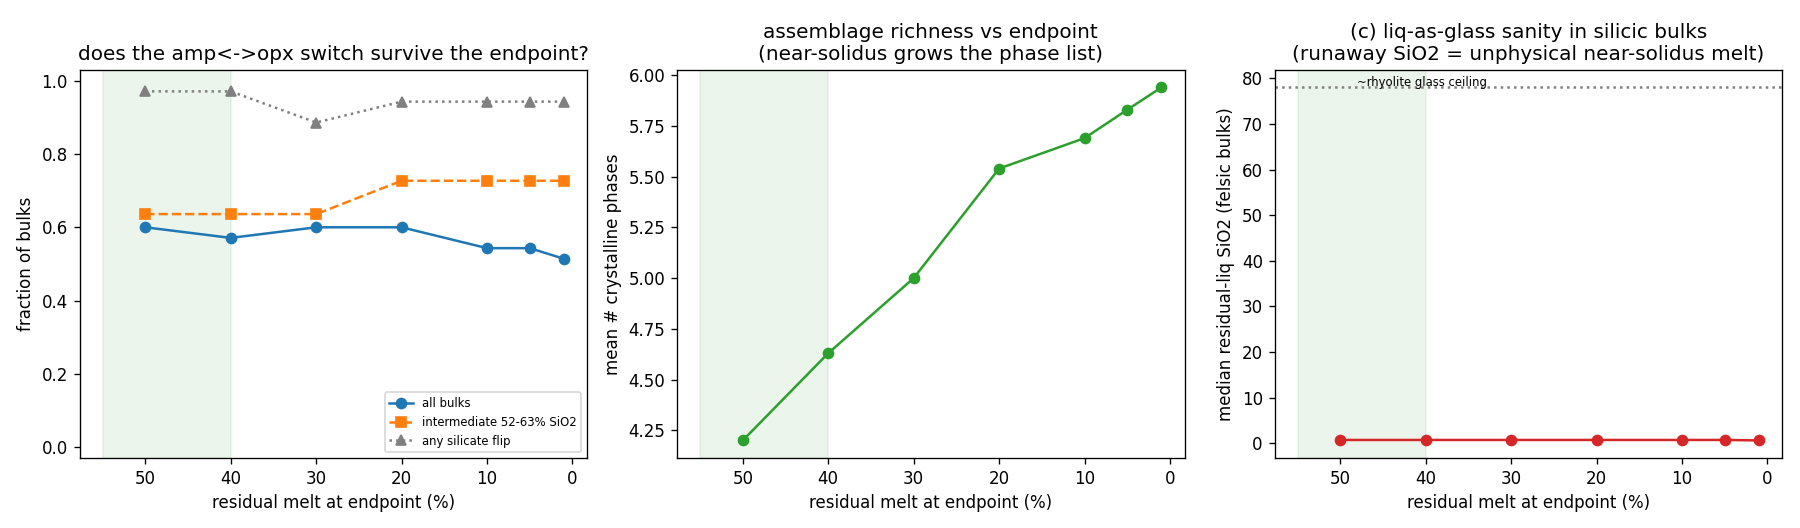
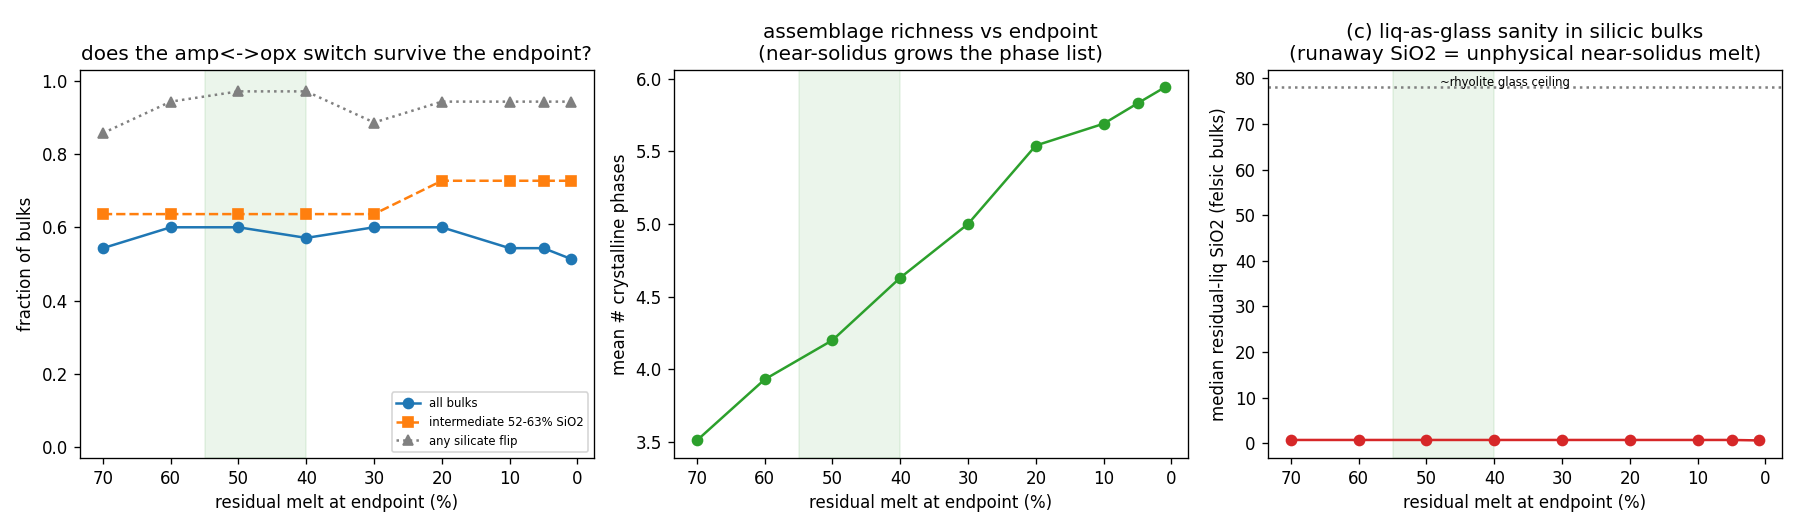
what volcanic_proxy_definition is for: our training labels come from a   simulator that answers one narrow question -- if this melt sits at some depth   with some water and cools in equilibrium, what crystals form. a real volcanic   rock is not that idealized object: it cooled partway underground, e
endpoint_repick.py: we already stored full cooling histories for 36 test rocks
  x 128 depth/water combinations, so this script re-reads them at nine stopping
  points (70% melt left down to 1%) and asks whether the headline result
  survives -- that the same rock chemistry gives different mineral sets
  depending on water (amphibole if wet, orthopyroxene if dry), the reason the
  model outputs multiple scenarios. it survives at every stopping point, and
  cooling to the end bloats the crystal list with dubious late-stage minerals.

  felsic_saturation.py: the remaining worry was silica-rich rocks, whose
  signature minerals (quartz, k-feldspar, biotite) feel late-stage -- would an
  early stop miss them, forcing a special deeper stop for felsic compositions?
  measured against 717 real rocks, the worry inverts: in silica-rich melts those
  minerals appear early (quartz typically crystallizing with 75% of the melt
  still liquid), so the early stop captures them, while cooling to the end puts
  quartz and biotite into simulated basalts where real basalts have exactly
  zero. so no composition-dependent stopping rule, and the early stop is what
  keeps mafic rocks honest. the one under-shooter is biotite, which loves water
  -- suspected to be the flat water assumption (fixed next), not the endpoint,
  so biotite is flagged as the sentinel to re-check after the water redesign.

diff --git a/explorations/volcanic_proxy_definition/felsic_saturation.py b/explorations/volcanic_proxy_definition/felsic_saturation.py
@@ -1,0 +1,158 @@
+"""Does a phenocryst-regime endpoint saturate the felsic diagnostic phases?
+
+The granularity EDA (explorations/real_mineralogy/eda) shows quartz, alkali
+feldspar, and biotite are felsic-restricted phenocrysts in real rocks. The
+residual question for the endpoint decision: at an eruptible-crystallinity
+endpoint (50-30% residual melt), do felsic bulks already saturate those phases
+in the equilibrium cooling ladders, or do they only appear near-solidus --
+which would argue for a composition-conditional (deeper felsic) stop?
+
+Reads the stored ladders in ../equilibrium_multimodality/work (gitignored,
+regenerable via that exploration's driver.py) plus the real benchmark in
+data/real_mineralogy/. Writes results/. No new MAGEMin run.
+"""
+import json
+from pathlib import Path
+
+import numpy as np
+import pandas as pd
+import matplotlib
+matplotlib.use("Agg")
+import matplotlib.pyplot as plt
+
+HERE = Path(__file__).resolve().parent
+WORK = HERE.parent / "equilibrium_multimodality" / "work"
+REAL = HERE.parent.parent / "data" / "real_mineralogy"
+RESULTS = HERE / "results"
+
+PRESENCE_EPS = 1e-3          # matches endpoint_repick.py / analyze.py
+MELT_LADDER = [0.70, 0.60, 0.50, 0.40, 0.30, 0.20, 0.10, 0.05, 0.01]
+BANDS = [0, 52, 63, 100]
+BAND_LABELS = ["mafic", "intermediate", "felsic"]
+
+# kfsp = any feldspar instance that is K-dominant by weight (sanidine proxy;
+# duplicates in the raw phase list are the two coexisting feldspars)
+TRACKED = ["q", "bi", "kfsp"]
+
+
+def load_points():
+    meta = pd.read_csv(WORK / "meta.csv")
+    rows = []
+    for f in sorted((WORK / "raw").glob("bulk_*.jsonl")):
+        for line in open(f):
+            r = json.loads(line)
+            liq = q = bi = 0.0
+            kfsp = False
+            for p in r["phases"]:
+                mode = float(p["mode_wt"])
+                if p["name"] == "liq":
+                    liq += mode
+                elif p["name"] == "q":
+                    q += mode
+                elif p["name"] == "bi":
+                    bi += mode
+                elif p["name"] == "fsp" and mode > PRESENCE_EPS:
+                    c = p["comp_wt"]
+                    kfsp = kfsp or c.get("K2O", 0) > c.get("Na2O", 0)
+            # q_mode/bi_mode: meta.csv already owns `q` (the proposal density)
+            rows.append(dict(sid=r["sid"], status=r["status"], G=r["G"],
+                             liq=liq, q_mode=q, bi_mode=bi, kfsp=kfsp))
+    pts = pd.DataFrame(rows).merge(meta, on="sid", how="inner")
+    pts["ok"] = (pts.status == 0) & (pts.G < 0)
+    return pts
+
+
+def per_draw(pts):
+    """One row per (bulk, draw): presence at each ladder endpoint + the melt
+    fraction at which each tracked phase first saturates while cooling."""
+    out = []
+    for (bulk, draw), g in pts[pts.ok].groupby(["bulk", "draw"]):
+        g = g.sort_values("T_celsius", ascending=False)
+        present = dict(q=g.q_mode > PRESENCE_EPS, bi=g.bi_mode > PRESENCE_EPS,
+                       kfsp=g.kfsp)
+        row = dict(bulk=bulk, draw=int(draw), sio2_bulk=float(g.sio2_bulk.iloc[0]),
+                   series=g.series.iloc[0])
+        for ph in TRACKED:
+            first = g.liq[present[ph]]
+            row[f"{ph}_in_liq"] = float(first.iloc[0]) if len(first) else np.nan
+        for melt in MELT_LADDER:
+            sub = g[g.liq < melt]
+            ep = sub.iloc[0] if len(sub) else g.iloc[-1]
+            for ph in TRACKED:
+                row[f"{ph}_at_{melt}"] = bool(present[ph].loc[ep.name])
+        out.append(row)
+    return pd.DataFrame(out)
+
+
+def real_presence():
+    """du Bray phenocryst presence frequency per SiO2 band (incl. trace rows)."""
+    s = pd.read_csv(REAL / "samples.csv")
+    m = pd.read_csv(REAL / "modes.csv")
+    s = s[s.source.str.startswith("dubray") & s.sio2.notna()]
+    m = m[m.source.str.startswith("dubray")]
+    name_map = {"quartz": "q", "silica phases": "q", "biotite": "bi",
+                "alkali feldspar": "kfsp"}
+    m = m[m.phase.isin(name_map)].assign(ph=lambda d: d.phase.map(name_map))
+    has = m.groupby(["sample_id", "ph"]).size().unstack(fill_value=0) > 0
+    s = s.set_index("sample_id").join(has)
+    for ph in TRACKED:
+        s[ph] = s[ph].eq(True)
+    s["band"] = pd.cut(s.sio2, BANDS, labels=BAND_LABELS)
+    return s.groupby("band", observed=True)[TRACKED].mean(), s.band.value_counts()
+
+
+def main():
+    pts = load_points()
+    conv = pts.groupby("bulk").ok.mean()
+    dead = conv[conv == 0].index.tolist()
+    draws = per_draw(pts)
+    draws = draws[~draws.bulk.isin(dead)]
+    draws["band"] = pd.cut(draws.sio2_bulk, BANDS, labels=BAND_LABELS)
+    print(f"{len(draws):,} draws over {draws.bulk.nunique()} bulks "
+          f"({len(dead)} non-converged excluded)")
+
+    # du Bray is a subalkaline arc suite; the stratified sim bulks are half
+    # alkaline by design, so the apples-to-apples row is subalkaline-only
+    freq = draws.groupby(["series", "band"], observed=True)[
+        [f"{ph}_at_{m}" for m in MELT_LADDER for ph in TRACKED]].mean()
+    real, real_n = real_presence()
+
+    print("\n=== sim presence frequency at each endpoint vs real du Bray phenocrysts"
+          " (subalkaline sim bulks) ===")
+    for ph in TRACKED:
+        tab = freq.loc["subalkaline", [f"{ph}_at_{m}" for m in MELT_LADDER]].copy()
+        tab.columns = [f"melt={m}" for m in MELT_LADDER]
+        tab["real"] = real[ph]
+        print(f"\n{ph}:\n{tab.round(2).to_string()}")
+
+    print("\n=== melt fraction at first saturation (felsic bulks, per-draw) ===")
+    fel = draws[draws.band == "felsic"]
+    for ph in TRACKED:
+        x = fel[f"{ph}_in_liq"]
+        print(f"{ph}: never-in {x.isna().mean():.0%}, saturation melt frac "
+              f"p90={np.nanpercentile(x, 90):.2f} median={np.nanmedian(x):.2f} "
+              f"p10={np.nanpercentile(x, 10):.2f}")
+
+    freq.to_csv(RESULTS / "felsic_saturation_by_band.csv")
+    sub = draws[draws.series == "subalkaline"]
+    fig, axes = plt.subplots(1, 3, figsize=(13, 4), sharey=True)
+    for ax, ph in zip(axes, TRACKED):
+        for band in BAND_LABELS:
+            y = [sub[sub.band == band][f"{ph}_at_{m}"].mean() for m in MELT_LADDER]
+            ax.plot([m * 100 for m in MELT_LADDER], y, "o-", label=band)
+            ax.axhline(real.loc[band, ph], ls=":", alpha=0.5,
+                       color=ax.lines[-1].get_color())
+        ax.set_title(f"{ph} presence vs endpoint, subalkaline sim\n"
+                     "(dotted = real du Bray phenocryst freq)")
+        ax.set_xlabel("residual melt at endpoint (%)")
+        ax.invert_xaxis()
+        ax.axvspan(40, 55, color="green", alpha=0.08)
+    axes[0].set_ylabel("fraction of draws / samples with phase present")
+    axes[0].legend(fontsize=8)
+    fig.tight_layout()
+    fig.savefig(RESULTS / "felsic_saturation.png", dpi=120)
+    print("\nwrote results/felsic_saturation_by_band.csv + felsic_saturation.png")
+
+
+if __name__ == "__main__":
+    main()

diff --git a/explorations/volcanic_proxy_definition/endpoint_repick.py b/explorations/volcanic_proxy_definition/endpoint_repick.py
@@ -35,7 +35,9 @@ PRESENCE_EPS = 1e-3   # mode wt frac above which a phase counts as present (matc
 # Residual-melt targets from eruptible lava (Gemini) down to near-solidus (ChatGPT).
 # Rheological lock-up erupts at ~45-60 vol% crystals (Marsh 1981, Scaillet 1998),
 # i.e. ~40-55% melt; 1% is the multimodality exploration's near-solidus rule.
-MELT_LADDER = [0.50, 0.40, 0.30, 0.20, 0.10, 0.05, 0.01]
+# 0.70/0.60 added later: real phenocryst totals (du Bray ~10-30 vol%) put the
+# median storage state shallower than 50% crystals, so probe that side too.
+MELT_LADDER = [0.70, 0.60, 0.50, 0.40, 0.30, 0.20, 0.10, 0.05, 0.01]
 
 SILICATE_IDENTITY = ["amp", "opx", "bi", "g", "ol", "ne", "mu"]  # petrogenetic in/out switches
 INTERMEDIATE = (0.10, 0.90)  # presence-freq band that signals a within-bulk flip
